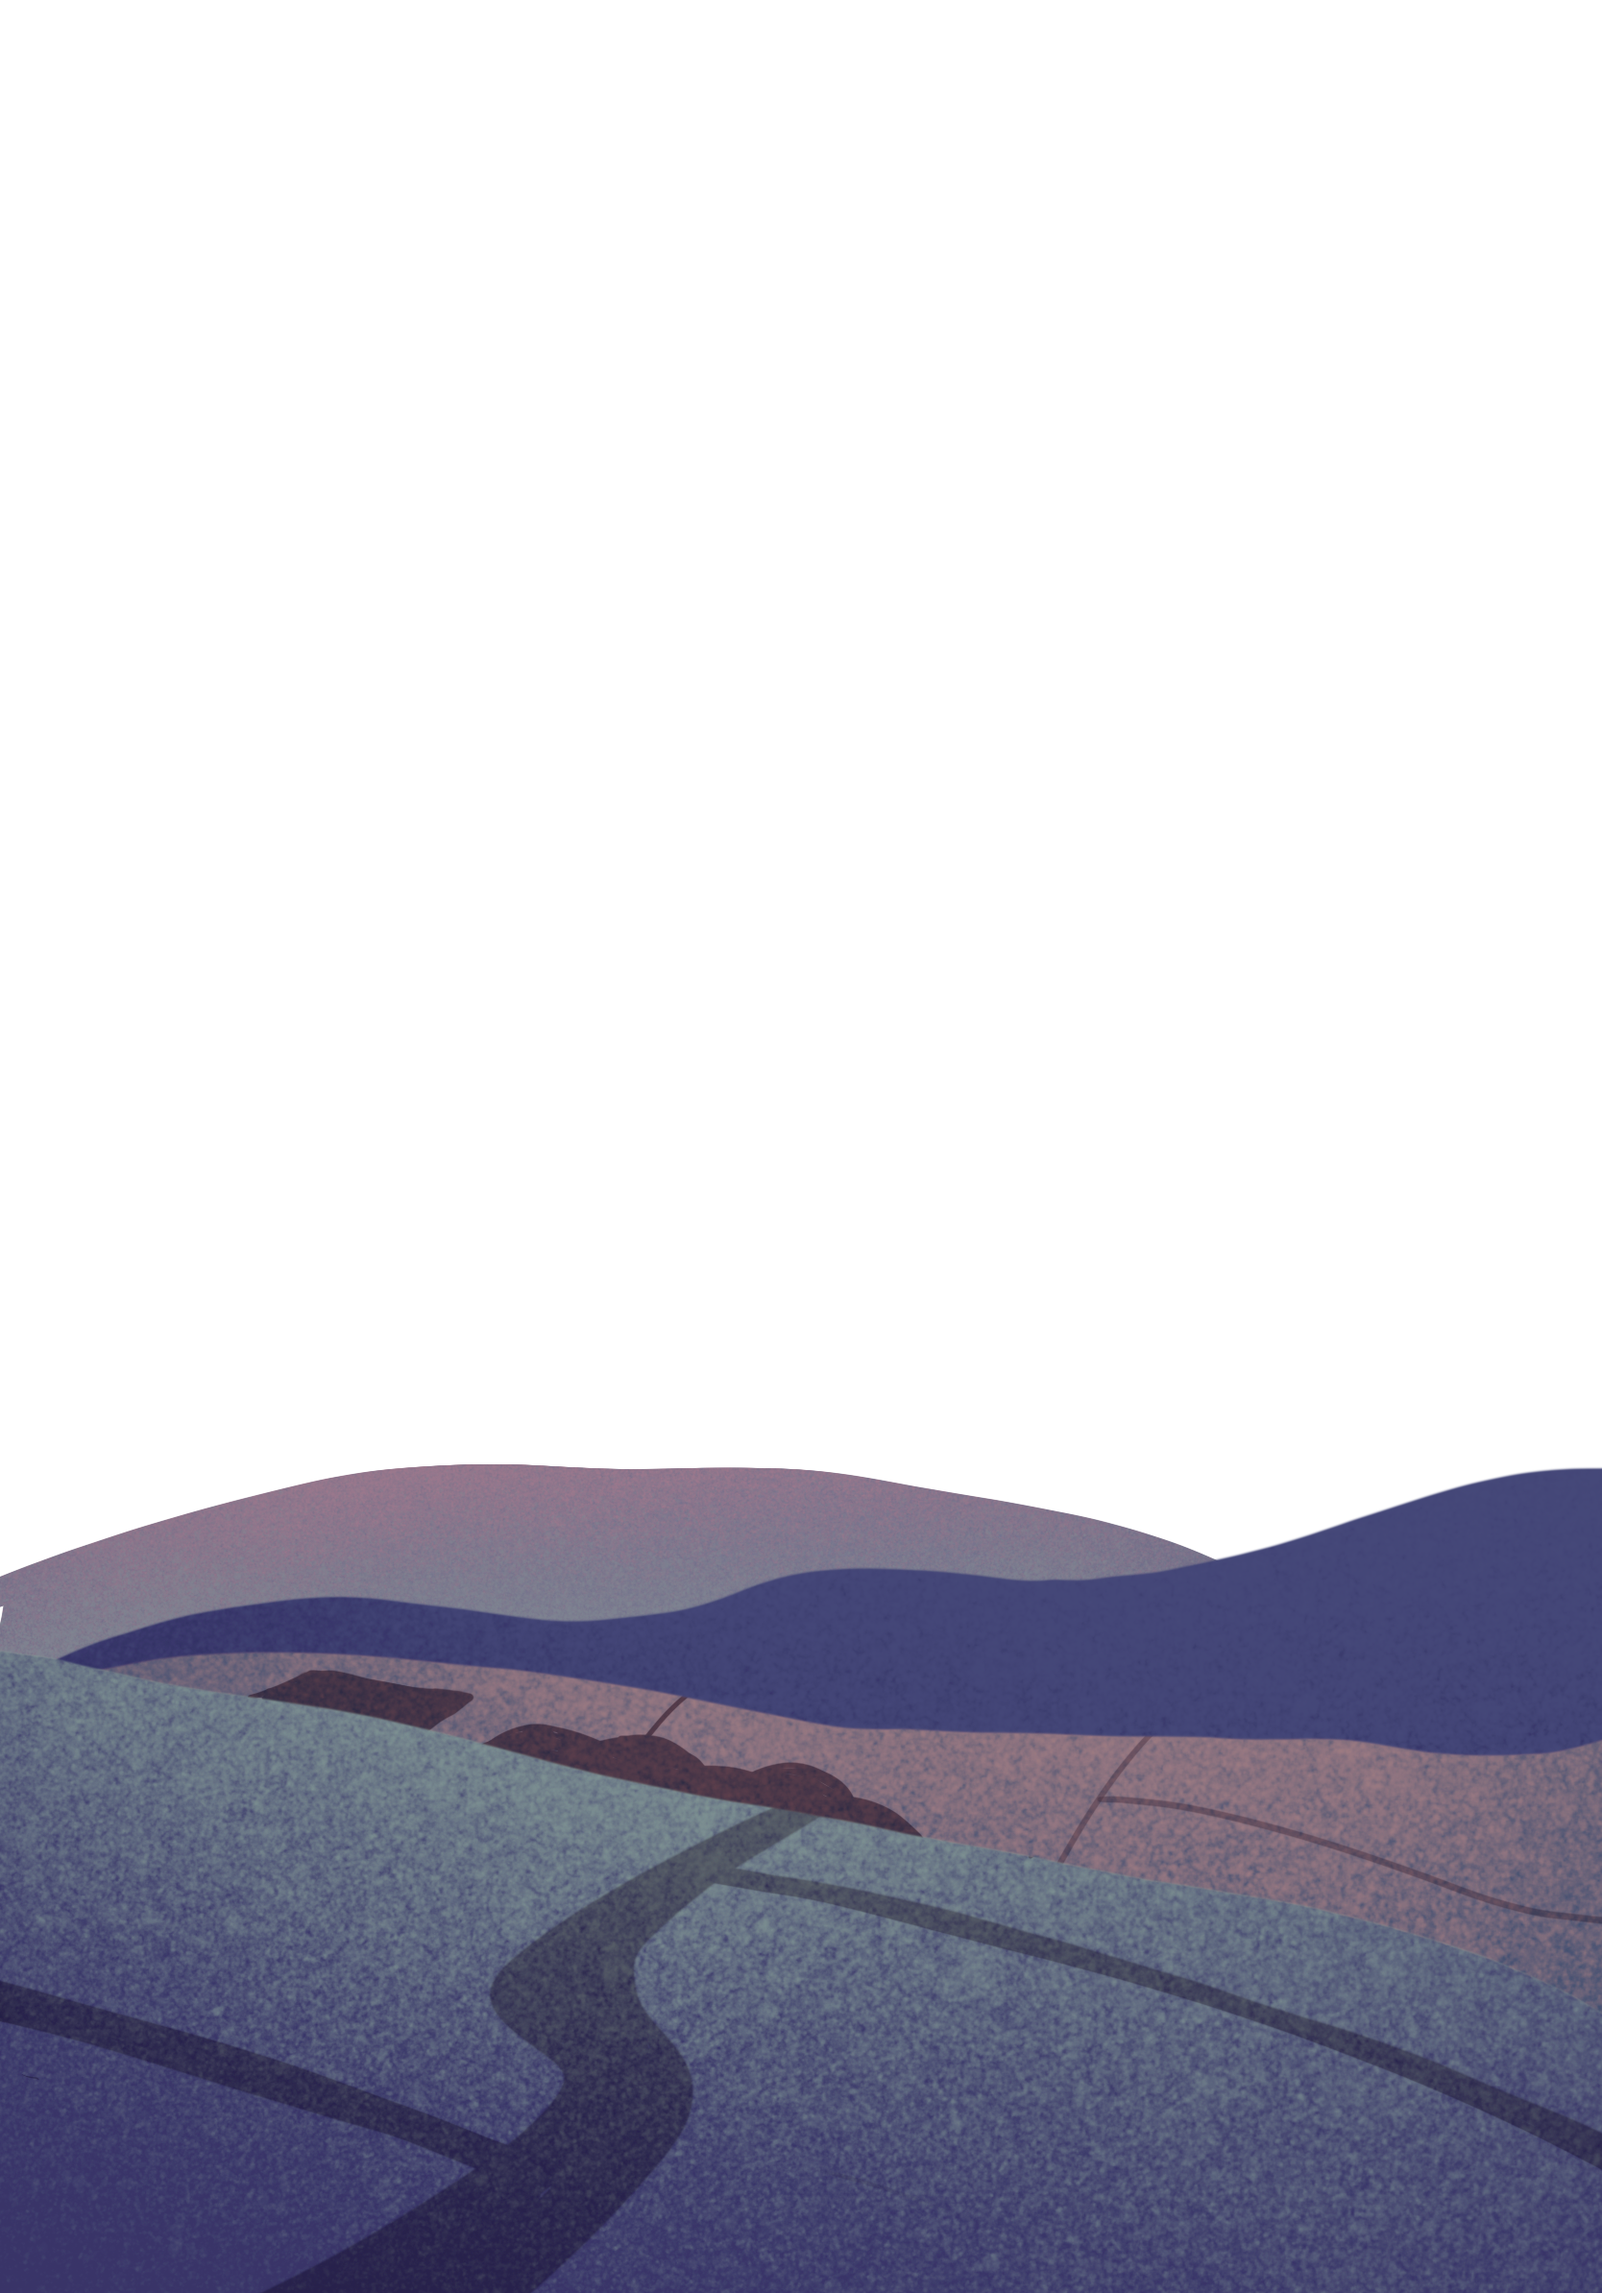
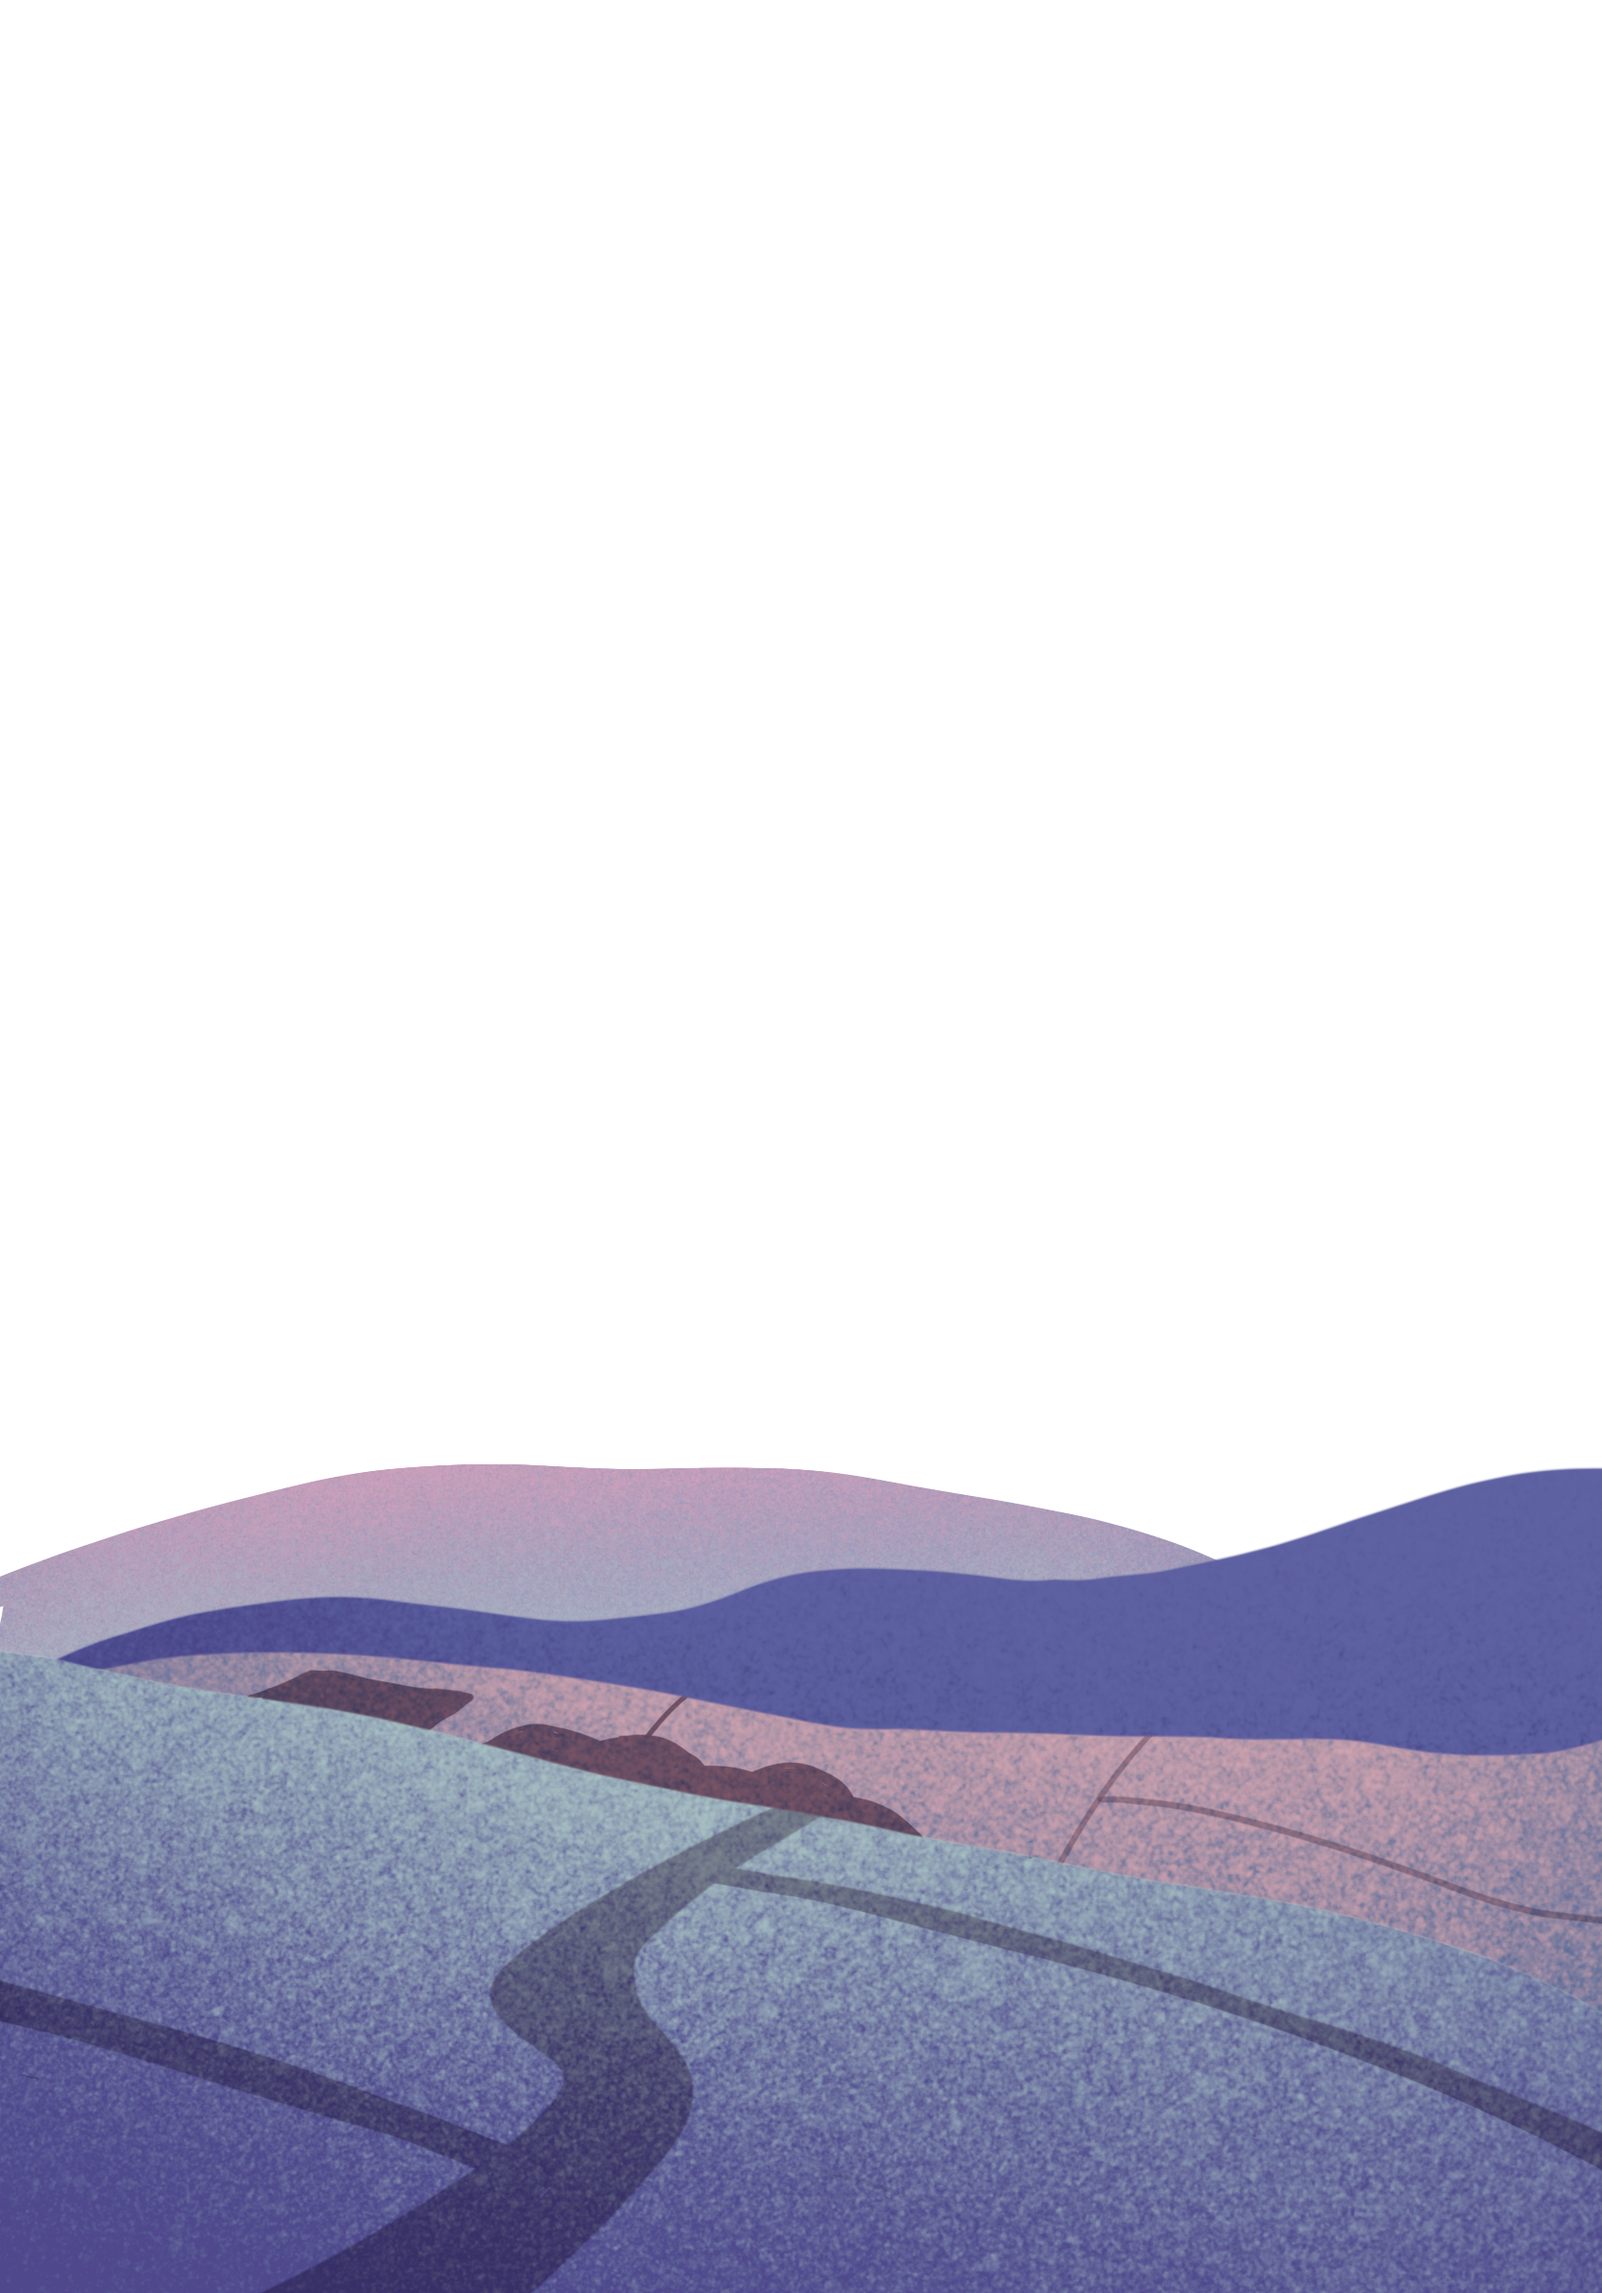
Modify background assets and add background image to WeatherSliverDelegateView

diff --git a/lib/views/weather_sliver_delegate_view.dart b/lib/views/weather_sliver_delegate_view.dart
@@ -57,15 +57,15 @@ class WeatherPersistentHeaderDelegate extends SliverPersistentHeaderDelegate {
             ),
           ),
         ),
-        /* Positioned(
+        Positioned(
           left: 0,
           right: 0,
-          bottom: (-100 - scrollPercentage * 150).clamp(-170, -100),
+          bottom: (-100 - scrollPercentage * 250).clamp(-300, -100),
           child: Image.asset(
-            'assets/background_images/' + background.foregroundImagePath,
+            'assets/background_images/${background.backgroundImagePath}',
             fit: BoxFit.cover,
           ),
-        ), */
+        ),
         Positioned(
           left: 0,
           right: 0,

diff --git a/lib/helpers/current_weather_helper.dart b/lib/helpers/current_weather_helper.dart
@@ -6,7 +6,7 @@ class CurrentWeatherHelper {
       {required String weatherStatus}) {
     Background background;
 
-    if (DateTime.now().hour >= 20) {
+    if (DateTime.now().hour >= 19) {
       return background = const Background(
         backgroundGradient: Constants.nightGradient,
         backgroundImagePath: 'night_background/night_background.png',
